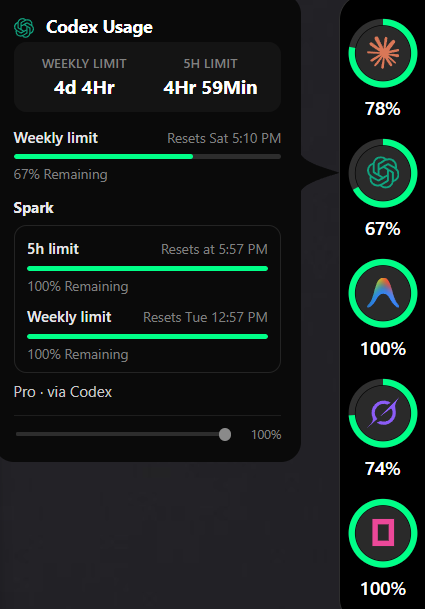
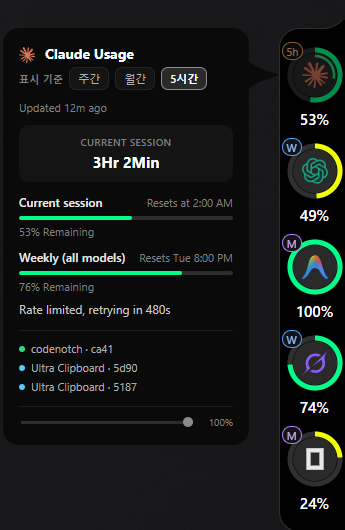
문서: README에 provider별 리밋 전환·업데이트 확인 기능 반영, 스크린샷 갱신
- 루트/windows README의 기능 목록과 스크린샷 캡션을 새 hover 카드
  "표시 기준" 버튼과 M/W/5h 배지에 맞게 갱신.
- 실제 실행 화면 스크린샷을 최신 UI로 교체.
- 설치 링크를 windows-v0.4.0으로 갱신.

diff --git a/windows/README.md b/windows/README.md
@@ -14,12 +14,15 @@ required.
 ![Codenotch pill and hover card on Windows](docs/screenshots/windows-hover-card.png)
 
 *The pill on the right edge (Claude, Codex, Antigravity, Grok, OpenCode — five providers, five
-distinguishable colours) and the Codex hover card: the large "4d 4Hr / 4Hr 59Min" box is the new
-weekly/5h reset countdown, and every bar reads remaining, not used.*
+distinguishable colours, each ring wearing a small colour-coded M/W/5h badge for the window it is
+currently reading) and Claude's hover card: "Ring shows" switches that one provider between
+weekly / monthly / 5-hour without touching any other ring's choice, and the reset box and session
+list underneath are unchanged.*
 
 *오른쪽 가장자리의 pill(Claude, Codex, Antigravity, Grok, OpenCode — provider 5개가 색으로
-구분됨)과 Codex의 hover 카드: 크게 표시된 "4d 4Hr / 4Hr 59Min" 박스가 새로 추가된 주간/5시간
-리셋 카운트다운이고, 모든 막대는 사용량이 아니라 잔여량 기준입니다.*
+구분되고, 각 링에는 지금 어떤 윈도우를 보고 있는지 알려주는 작은 M/W/5h 색상 배지가 붙습니다)과
+Claude의 hover 카드: "표시 기준"에서 그 provider의 링만 주간/월간/5시간 중 하나로 바꿀 수 있고,
+다른 provider에는 영향을 주지 않습니다. 아래 리셋 박스와 세션 목록은 그대로입니다.*
 
 ## What it shows
 
@@ -111,6 +114,18 @@ This fork ([toughCSB/codenotch](https://github.com/toughCSB/codenotch)) adds on 
   colour to show — so those three get a distinguishing accent tint instead, clearly **not** an
   official brand colour, just a way to tell the cells apart at a glance. OpenCode's real mark is
   plain white, so it is left untinted rather than inventing a colour it doesn't have.
+- **Each ring's window is switchable on its own**: the hover card's "Ring shows" row picks
+  weekly / monthly / 5-hour for that one provider only — every other ring keeps its own choice. A
+  small colour-coded M/W/5h badge on the ring's corner always shows which one it is reading, so the
+  choice never has to be re-discovered by hovering.
+- **Settings follow the Windows language**: the settings window used to fall back to English for
+  every language but Russian even when the tray menu was already in Korean; it now uses the same
+  per-language dictionary and picks it up from the same place the tray does.
+- **Checks GitHub for updates**: Settings → About can check this fork's releases for a newer
+  Windows build and download the installer with one more click — nothing installs on its own.
+- **The pill re-snaps to the right edge on its own**: undocking a monitor, or any other change to
+  the display layout, used to leave the pill wherever it had last been placed; it now notices
+  within a couple of seconds and moves itself back to the edge.
 
 None of this touches the credential/security discipline of the upstream code: every provider still
 only *reads* an existing sign-in, never writes or refreshes a token, and a 401/403/429 is handled
@@ -140,6 +155,17 @@ the same conservative way (back off, mark stale, never invent a number).
   이 세 개는 구분을 위한 강조색을 입혔습니다 — **공식 브랜드 컬러가 아니라** 셀을 한눈에
   구분하기 위한 선택입니다. OpenCode는 실제 아이콘 자체가 흰색이라 임의로 색을 입히지 않고
   그대로 뒀습니다.
+- **각 링의 표시 기준을 따로 전환**: hover 카드의 "표시 기준" 줄에서 그 provider의 링만
+  주간/월간/5시간 중 하나로 바꿀 수 있고, 다른 provider는 각자 고른 값을 그대로 유지합니다.
+  링 모서리의 작은 M/W/5h 배지가 지금 어떤 기준인지 항상 보여줍니다.
+- **설정 창이 Windows 언어를 따름**: 예전엔 설정 창이 러시아어를 제외한 모든 언어에서 영어로만
+  나왔는데(트레이 메뉴는 이미 한국어 지원), 이제 트레이와 같은 언어별 딕셔너리를 써서 Windows
+  언어를 그대로 따라갑니다.
+- **GitHub 업데이트 확인**: 설정 → 정보에서 이 포크의 새 Windows 릴리스를 확인하고, 한 번 더
+  클릭하면 설치 프로그램을 내려받아 실행합니다 — 자동으로 설치되지는 않습니다.
+- **모니터 구성이 바뀌어도 자동으로 오른쪽 끝에 재배치**: 모니터를 뽑거나 연결하는 등 화면
+  배치가 바뀌면 예전엔 바가 마지막 위치에 그대로 남았는데, 이제 몇 초 안에 감지해서 스스로
+  오른쪽 끝으로 다시 붙습니다.
 
 이 변경들은 원본 코드의 크리덴셜/보안 원칙을 건드리지 않습니다: 모든 provider는 여전히 기존
 로그인 상태를 *읽기만* 하고 토큰을 쓰거나 갱신하지 않으며, 401/403/429는 기존과 동일하게

diff --git a/README.md b/README.md
@@ -17,14 +17,19 @@ WebView2) adds on top of upstream:
 - **Per-provider colours** — Claude and Antigravity's real official colour marks, plus a
   distinguishing tint for the four brands that only publish monochrome logos (Codex, Cursor, Grok,
   OpenCode) so all five-plus cells stay tellable apart at a glance.
+- **Switch one ring's window without touching the rest** — the hover card's "Ring shows" row
+  flips that one provider between weekly / monthly / 5-hour; a small colour-coded M/W/5h badge on
+  each ring's corner always shows which one it is currently reading.
+- **Checks GitHub for updates** — Settings → About can check this fork's releases for a newer
+  Windows build and download the installer with one more click; nothing installs on its own.
 
 Full bilingual (English/한국어) writeup, provider details and build instructions:
 **[`windows/README.md`](windows/README.md)**.
 
 ## Install on Windows
 
-Download and run the installer from **[Releases](../../releases/tag/windows-v0.3.0)**:
-[`Codenotch_0.3.0_x64-setup.exe`](../../releases/download/windows-v0.3.0/Codenotch_0.3.0_x64-setup.exe).
+Download and run the installer from **[Releases](../../releases/tag/windows-v0.4.0)**:
+[`Codenotch_0.4.0_x64-setup.exe`](../../releases/download/windows-v0.4.0/Codenotch_0.4.0_x64-setup.exe).
 Requires Windows 11 (WebView2 runtime ships by default). The installer adds a Start Menu shortcut
 and an uninstaller — no admin rights needed.
 
@@ -40,8 +45,8 @@ cargo build --release
 
 ## 윈도우에 설치하기
 
-**[Releases](../../releases/tag/windows-v0.3.0)** 페이지에서 설치 파일을 받아 실행하세요:
-[`Codenotch_0.3.0_x64-setup.exe`](../../releases/download/windows-v0.3.0/Codenotch_0.3.0_x64-setup.exe).
+**[Releases](../../releases/tag/windows-v0.4.0)** 페이지에서 설치 파일을 받아 실행하세요:
+[`Codenotch_0.4.0_x64-setup.exe`](../../releases/download/windows-v0.4.0/Codenotch_0.4.0_x64-setup.exe).
 Windows 11 필요(WebView2 런타임은 기본 포함). 설치하면 시작 메뉴에 바로가기와 제거 프로그램이
 등록됩니다 — 관리자 권한 불필요.
 
